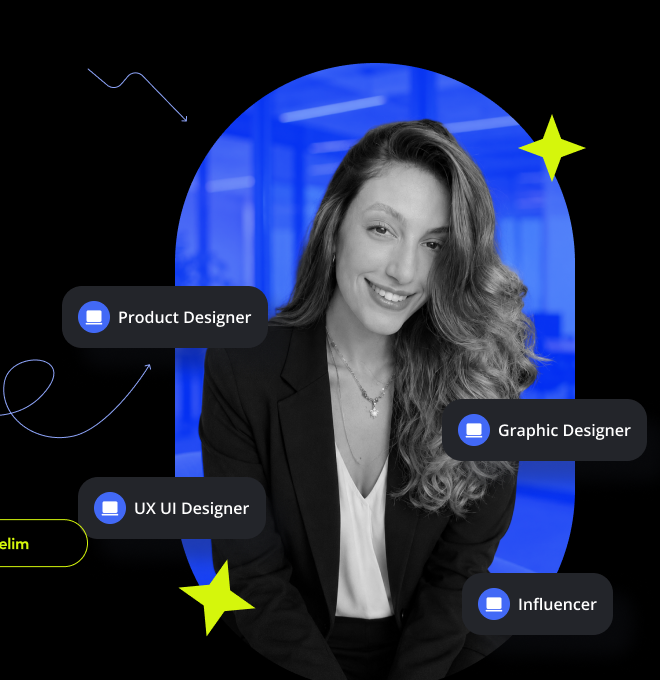
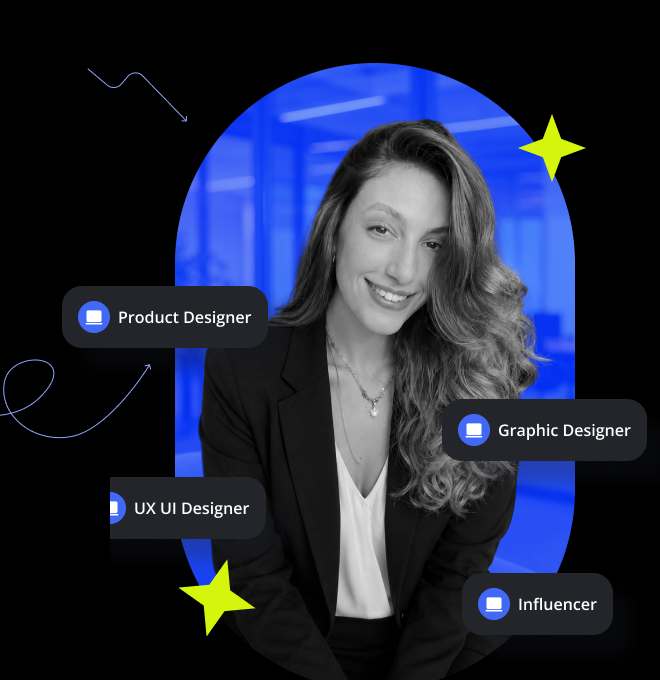
Add files via upload

Changed region(s): [[0.0909, 0.6794, 0.1818, 0.8029], [0.0, 0.7721, 0.0303, 0.8338]]

diff --git a/index.html b/index.html
@@ -8,8 +8,8 @@
   <link rel="preconnect" href="https://fonts.googleapis.com">
   <link rel="preconnect" href="https://fonts.gstatic.com" crossorigin>
   <link href="https://fonts.googleapis.com/css2?family=Lora:wght@600&family=Outfit:wght@300;400;500;600;700&display=swap" rel="stylesheet">
-  <link rel="stylesheet" href="styles.css">
-  <link rel="stylesheet" href="refinements.css">
+  <link rel="stylesheet" href="styles.css?v=3">
+  <link rel="stylesheet" href="refinements.css?v=3">
 </head>
 <body>
   <a class="skip" href="#content">İçeriğe geç</a>
@@ -24,7 +24,7 @@
         <button class="hero-button" data-view="contact">İletişime Geçelim</button>
       </nav>
     </div>
-    <div class="hero-visual"><img src="hero-art.png" alt="Ezgi Kafkas; Product Designer, Graphic Designer, UX UI Designer ve Influencer"></div>
+    <div class="hero-visual"><img src="hero-art.png?v=3" alt="Ezgi Kafkas; Product Designer, Graphic Designer, UX UI Designer ve Influencer"></div>
   </header>
 
   <main id="content">